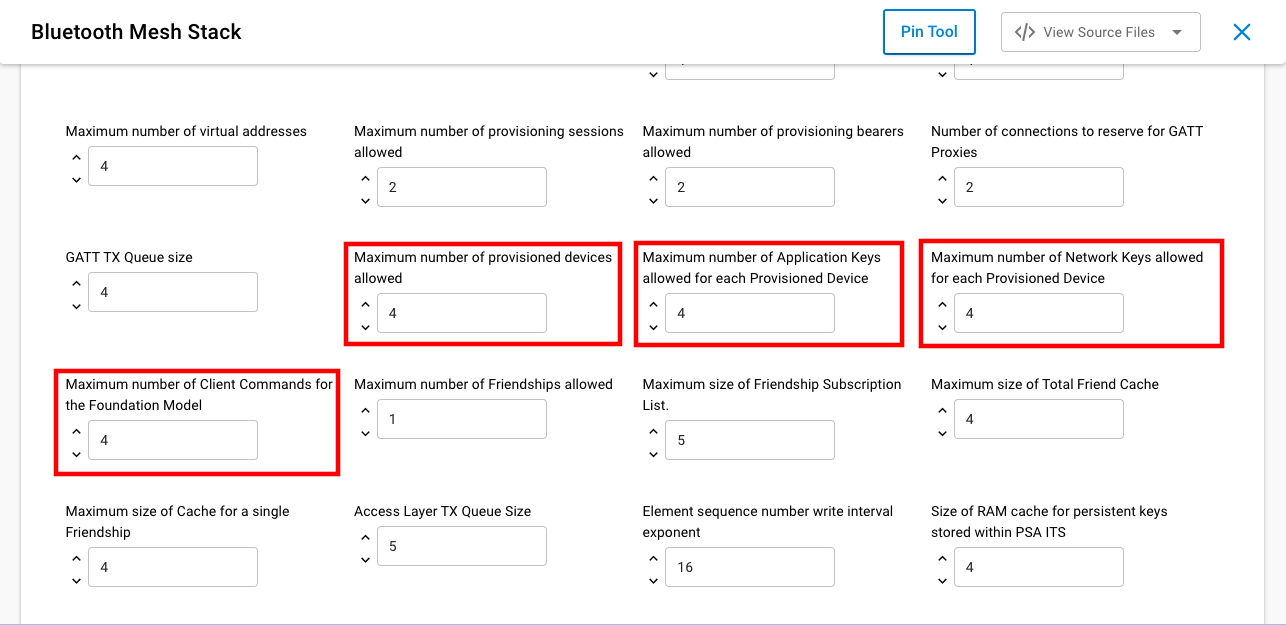
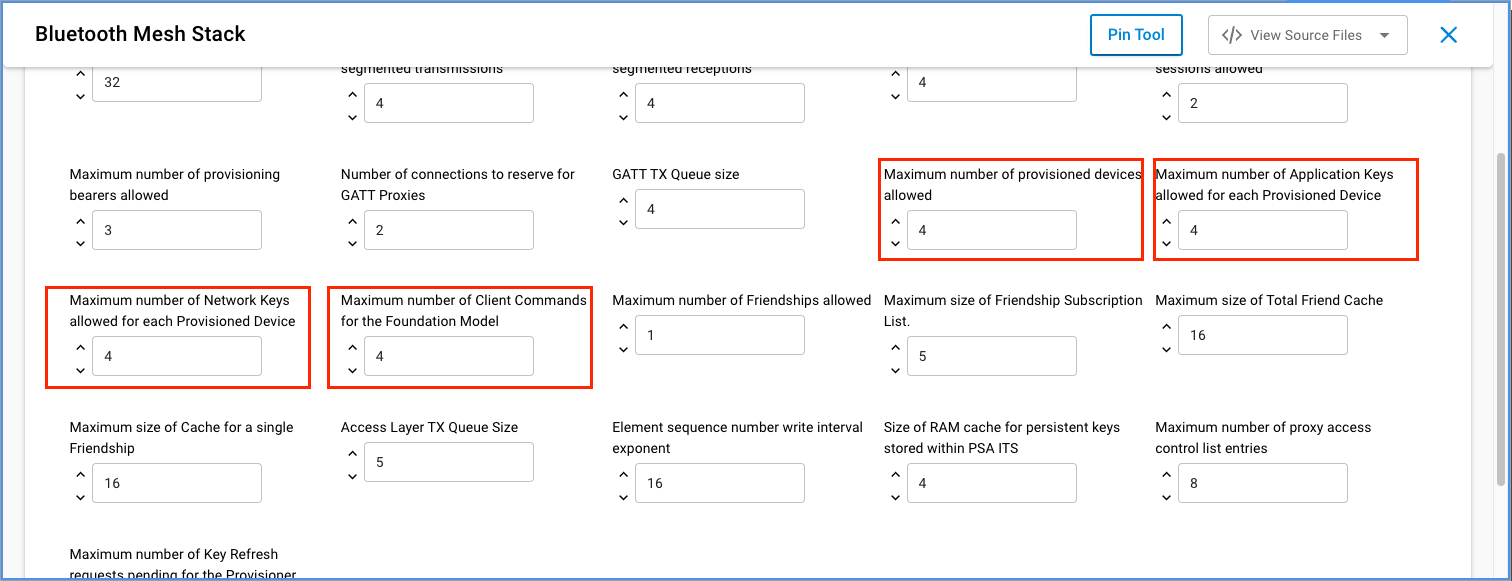
embedded_provisioner

diff --git a/provisioning/embedded_provisioner/README.md b/provisioning/embedded_provisioner/README.md
@@ -6,17 +6,17 @@ Provisioner - A node that is capable of adding a device to a mesh network.
 
 Provisioning is the process of adding a new, unprovisioned device to a Bluetooth mesh network, such as a light bulb. The process is managed by a provisioner. A provisioner and an unprovisioned device follow a fixed procedure which is defined in the Bluetooth mesh specification. A provisioner provides the unprovisioned device with provisioning data that allows it to become a Bluetooh mesh node.
 
-This example is aimed to demonstrate our Mesh library's capabilities in building an embedded provisioner device and extracting the Device Composition Database data from the freshly provisioned node. The project also contains a Lightness/CTL Client implementation with all the necessary publish/subscribe configurations to be able to successfully control our ```Bluetooth Mesh - SoC Light``` example.
+This example is aimed to demonstrate our Mesh library's capabilities in building an embedded provisioner device and extracting the Device Composition Database data from the freshly provisioned node. The project also contains a Lightness/CTL Client implementation with all the necessary publish/subscribe configurations to be able to successfully control our ```Bluetooth Mesh - SoC Light CTL``` example.
 
 ## Gecko SDK version ##
 
-GSDK v4.4.1
+SiSDK v2024.6.0
 
 ---
 
 ## Important
 
-> ⚠ You are not required to follow through with the setup part of the Instructions when using our *External Repos* feature!
+> ⚠ You are not required to follow through with the setup part of the Instructions when using our [*External Repos*](../../README.md) feature!
 
 This project README assumes that the reader is familiar with the usage of SiliconLabs Simplicity Studio 5 and the provided example projects within it.
 
@@ -37,19 +37,19 @@ This project README assumes that the reader is familiar with the usage of Silico
 
 ## Instructions
 
-  - This Example is based on the ```Bluetooth Mesh - SoC Light``` included with the Silicon Labs GSDK
-  - Create a new project based on the ```Bluetooth Mesh - SoC Light``` example
+  - This Example is based on the ```Bluetooth Mesh - SoC Light CTL``` included with the Silicon Labs GSDK
+  - Create a new project based on the ```Bluetooth Mesh - SoC Light CTL``` example
   - Copy the following files into the root directory of your project, overwrite the already existing ones:
     - app.c/h
     - config.c/h
     - btmesh_change.c/h
   - Install the following components:
     - Application > Utility > Button Press
-    - Bluetooth Mesh > Stack Classes > Test
-    - Bluetooth Mesh > Stack Classes > Provisioner
-    - Bluetooth Mesh > Stack Classes > CTL Client
-    - Bluetooth Mesh > Stack Classes > Lightness Client
-    - Bluetooth Mesh > Stack Classes > Configuration Client
+    - Bluetooth Mesh > Stack > Test
+    - Bluetooth Mesh > Stack > Provisioner
+    - Bluetooth Mesh > Btmesh Roles > Btmesh Provisioner
+    - Bluetooth Mesh > Models > Lighting > CTL Client
+    - Bluetooth Mesh > Stack > Models > Core > Configuration Client
 
   ![install_button_press](images/install_button_press.png)
 
@@ -61,14 +61,14 @@ This project README assumes that the reader is familiar with the usage of Silico
     - Maximum number of provisioned devices allowed
     - Maximum number of Application Keys allowed for each Provisioned Device
     - Maximum number of Network Keys allowed for each Provisioned Device
-    - Max Foundation Client Cmds
+    - Maximum number of Client Commands for the Foundation Model
       - For detailed explanation of these fields see: https://www.silabs.com/documents/public/user-guides/ug472-bluetooth-mesh-v2x-node-configuration-users-guide.pdf
 
   ![increase_values_1](images/increase_values_1.png)
   ![increase_values_2](images/increase_values_2.png)
 
   - When everything is configured, build and flash the project
-  - Flash the other board with ```Bluetooth Mesh - SoC Light``` example project
+  - Flash the other board with ```Bluetooth Mesh - SoC Light CTL``` example project
   - Via the terminal, you can see when the Provisioner device noticed the Unprovisioned Beacon. Now, by pressing ```Button 0``` for more then 10 seconds on the Provisioner device, you can provision the newly noticed device into your network. If the provisioning is successful, the Provisioner will extract the DCD informations from the new Node. After you get to ```configuration complete```, you should be able to control the LEDs of the Node device with the buttons of the Provisioner device.
 
   ![dcd_infos](images/dcd_infos.png)
